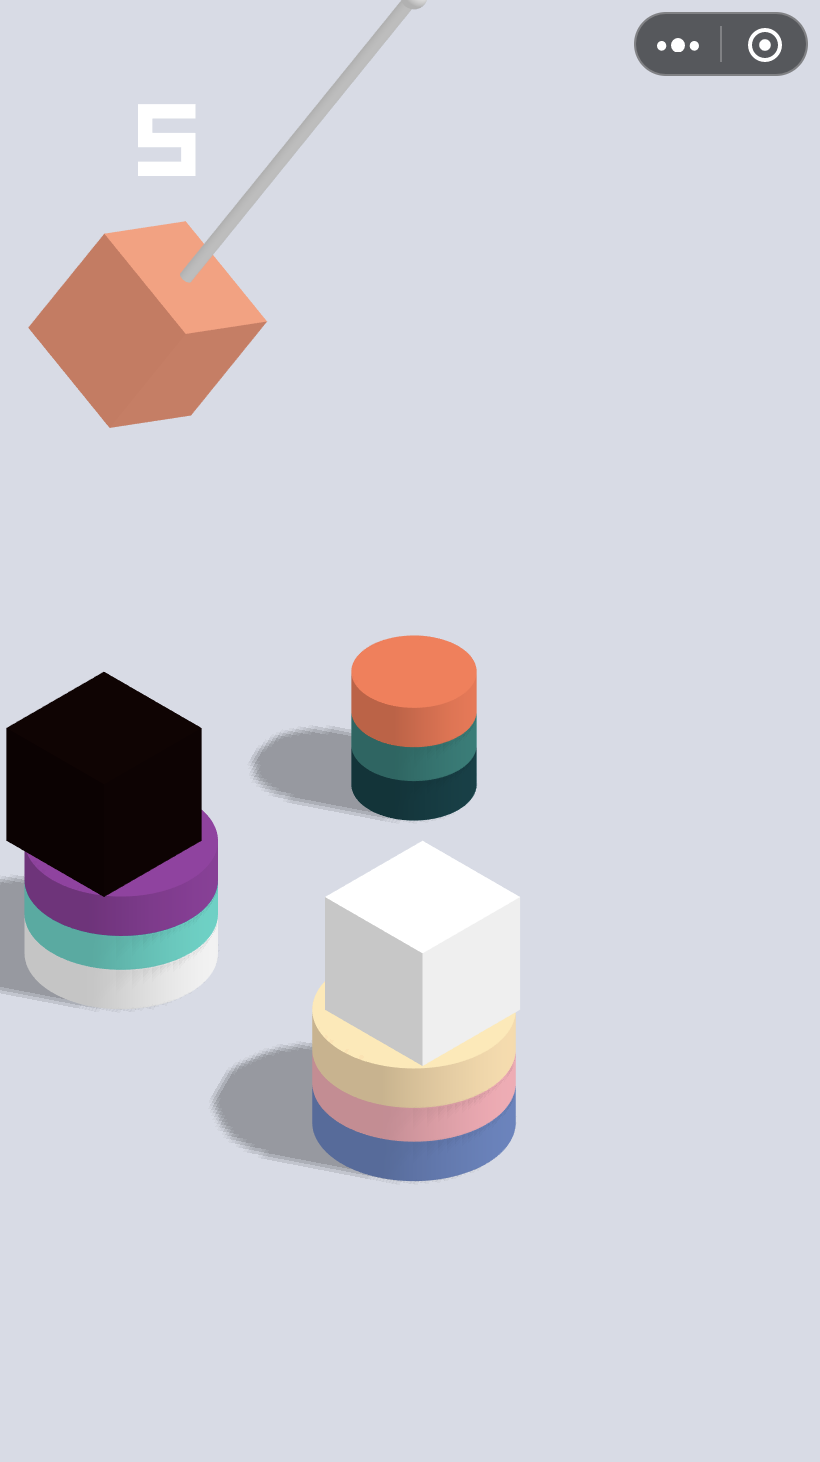
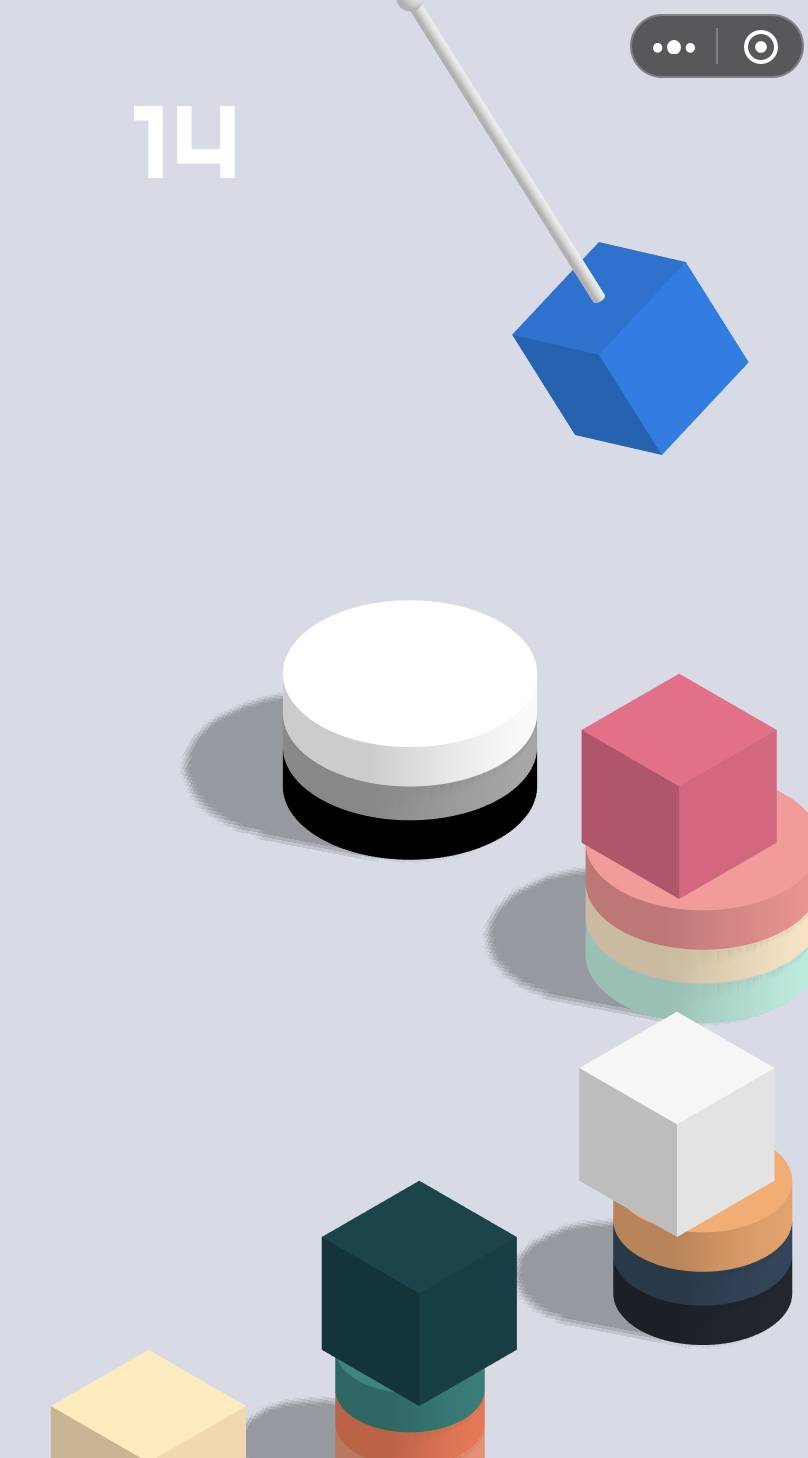
feat(game/index.js): cell will change color when it get block

diff --git a/client/js/pages/level/index.js b/client/js/pages/level/index.js
@@ -8,7 +8,6 @@ class LevelPage extends Page {
     this.homeButton = new Rect("icons/home-fill.png", gotoHome);
     this.rightButton = new Rect("icons/right-fill.png", this.nextPage);
     this.leftButton = new Rect("icons/left-fill.png", this.prePage);
-    this.title = new Rect("images/level_title.png");
     this.buttons = [this.homeButton, this.rightButton, this.leftButton];
     this.playButtons = [];
     this.page = 0;
@@ -200,17 +199,22 @@ class LevelPage extends Page {
   renderPage = () => {
     const iconSize = this.width * 0.1;
     const iconY = this.height * 0.8 + iconSize / 2;
-    const titleWidth = this.width * 0.12,
-      titleHeight = (titleWidth * 87) / 173;
     this.context.clearRect(0, 0, this.width, this.height);
     this.context.fillStyle = "rgba(0,0,0,0.3)";
     this.context.fillRect(0, 0, this.width, this.height);
-    this.title.set(
+    //绘制 title
+    this.context.font = `bold 25px '微软雅黑'`;
+    this.context.fillStyle = "white";
+    this.context.textBaseline = "bottom";
+    this.context.textAlign = "left";
+    const title = "选择关卡";
+    const titleWidth = this.context.measureText(title).width;
+    this.context.fillText(
+      title,
       (this.width - titleWidth) / 2,
-      this.height * 0.2 - titleHeight - iconSize / 2,
-      titleWidth,
-      titleHeight
+      this.height * 0.2 - 15
     );
+
     this.homeButton.set(this.width * 0.1, iconY, iconSize, iconSize);
     this.rightButton.set(
       this.width * 0.9 - iconSize,
@@ -237,7 +241,6 @@ class LevelPage extends Page {
     } else {
       this.leftButton.visible = false;
     }
-    this.title.drawToCanvas(this.context, this.update);
     this.homeButton.drawToCanvas(this.context, this.update);
   };
 

diff --git a/client/js/pages/game/index.js b/client/js/pages/game/index.js
@@ -110,10 +110,19 @@ class GamePage {
   }
 
   moveToNextBlock() {
+    // 更新颜色
+    if (this.databus.currentBlock) {
+      const [_, ...colors] = this.databus.colors;
+      this.databus.currentBlock.updateColor(colors);
+    }
+
+    // 判断是否结束
     if (this.databus.nextIndex === this.databus.data.length) {
       this.gameOver(S);
       return;
     }
+
+    // 如果没有结束
     const d = this.databus.data[this.databus.nextIndex];
     this.cellSize = 30;
     const targetLocation = {
@@ -126,6 +135,7 @@ class GamePage {
     const isReverse = Math.floor(Math.random() * 2);
     const originColor = this.colorManager.pop();
     const colors = isReverse ? this.reverseArray(originColor) : originColor;
+    this.databus.colors = colors;
     const [bobColor, ...blockColors] = colors;
     this.databus.currentBlock = new Cylinder(
       this.scene.instance,
@@ -141,7 +151,6 @@ class GamePage {
     this.databus.nextIndex++;
     this.pendulum.updateBobColor(bobColor);
     this.pendulum.updateAcceleration();
-    // this.ground.updateLocation(targetLocation);
     this.pendulum.updateLocation(targetLocation);
     this.scene.updateLocation(targetLocation);
     if (this.databus.level !== -1) {

diff --git a/client/js/pages/game/block/cylinder.js b/client/js/pages/game/block/cylinder.js
@@ -1,10 +1,12 @@
 import BaseBlock from "./base";
+import animate from "../../../libs/animate";
 import { blockConfig } from "../../../../config";
 
 class CylinderBlock extends BaseBlock {
-  constructor(scene, x, y, z, width, height, colors) {
+  constructor(scene, x, y, z, width, height) {
     super(scene, x, y, z, width, height);
 
+    const colors = [0xffffff, 0xaaaaaa, 0x000000];
     const topColor = colors[0];
     const middleColor = colors[1];
     const bottomColor = colors[2];
@@ -51,8 +53,21 @@ class CylinderBlock extends BaseBlock {
     totalMesh.add(topMesh);
     totalMesh.add(middleMesh);
     totalMesh.add(bottomMesh);
+
+    this.topMaterial = topMaterial;
+    this.middleMaterial = middleMaterial;
+    this.bottomMaterial = bottomMaterial;
     this.instance = totalMesh;
     this.instance.position.set(x, y, z);
+  }
+
+  updateColor(colors) {
+    const topColor = colors[0];
+    const middleColor = colors[1];
+    const bottomColor = colors[2];
+    this.topMaterial.color = new THREE.Color(topColor);
+    this.middleMaterial.color = new THREE.Color(middleColor);
+    this.bottomMaterial.color = new THREE.Color(bottomColor);
   }
 }
 

diff --git a/client/js/scene/light.js b/client/js/scene/light.js
@@ -1,4 +1,5 @@
 import Sprite from "../utils/sprite";
+import animate from "../libs/animate";
 
 class Light extends Sprite {
   constructor(scene) {
@@ -34,8 +35,30 @@ class Light extends Sprite {
 
   updateLocation(location) {
     const [_, shadowLight, shadowTarget] = this.instance;
-    shadowTarget.position.set(location.x, location.y, location.z);
-    shadowLight.position.set(location.x + 10, location.y + 30, location.z + 20);
+    animate(
+      shadowTarget.position,
+      {
+        x: shadowTarget.position.x,
+        y: shadowTarget.position.y,
+        z: shadowTarget.position.z,
+      },
+      location,
+      0.5
+    );
+    animate(
+      shadowLight.position,
+      {
+        x: shadowLight.position.x,
+        y: shadowLight.position.y,
+        z: shadowLight.position.z,
+      },
+      {
+        x: location.x + 10,
+        y: location.y + 30,
+        z: location.z + 20,
+      },
+      0.5
+    );
   }
 
   reset() {

diff --git a/client/js/libs/animate.js b/client/js/libs/animate.js
@@ -1,12 +1,20 @@
 import Tween from "./tween";
 
-export default function (obj, from, to, duration, delay = 0, type = "Linear") {
+export default function (
+  obj,
+  from,
+  to,
+  duration,
+  delay = 0,
+  type = "Linear",
+  cb = (value) => value
+) {
   for (let prop in to) {
     setTimeout(
       ((prop) => {
         return () => {
           tweenAnimation(from[prop], to[prop], duration, type, (value) => {
-            obj[prop] = value;
+            obj[prop] = cb(value);
           });
         };
       })(prop),

diff --git a/client/js/pages/help/index.js b/client/js/pages/help/index.js
@@ -118,7 +118,8 @@ class HelpPage extends Page {
     this.context.font = `bold 25px '微软雅黑'`;
     this.context.fillStyle = "white";
     this.context.textBaseline = "bottom";
-    const title = "游戏说明";
+    this.context.textAlign = "left";
+    const title = "游戏介绍";
     const titleWidth = this.context.measureText(title).width;
     this.context.fillText(
       title,

diff --git a/client/js/pages/game/databus.js b/client/js/pages/game/databus.js
@@ -18,6 +18,7 @@ class DataBus {
     this.gameOver = false;
     this.level = level;
     this.name = name;
+    this.colors = [];
   }
 
   getInfo(data) {
